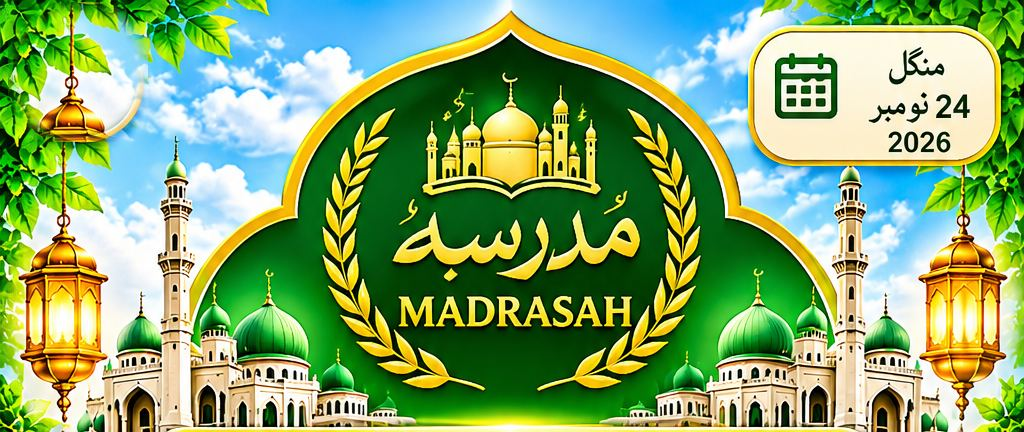
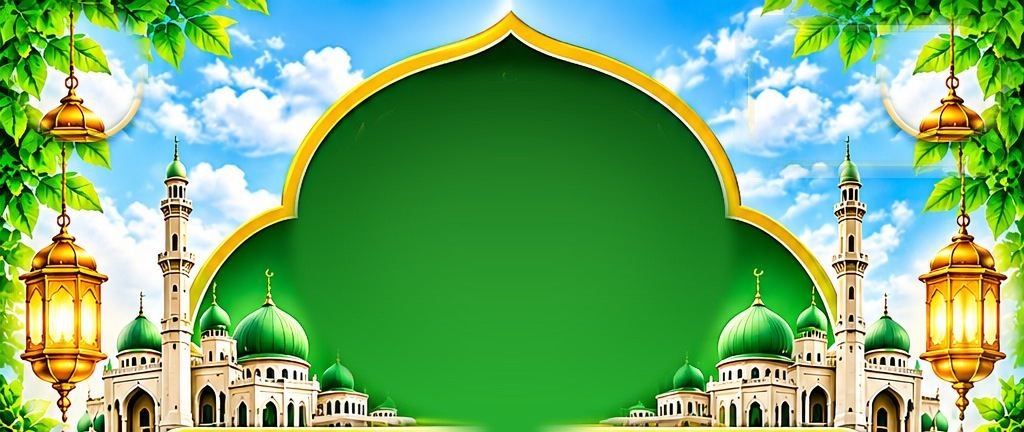
MD2511WE094: lock analog clock, home tiles, compact student list & profile, ranking page (#417)
Claude-Session: https://claude.ai/code/session_01FcEJRpBRJsgYLytQpuYX61

diff --git a/index.html b/index.html
@@ -1451,7 +1451,7 @@ td.clickable:hover { background: #fff9e6 !important; }
       <img src="logo.png" alt="Madrasah Logo" class="home-logo" onerror="this.style.display='none'">
     </div>
     <div class="home-title" id="homeMadrasaName">گلشن فاروقی جامعہ تعلیم القرآن</div>
-    <div class="home-version-badge" id="homeVersionBadge" onclick="mdDevTap()" style="cursor:default;user-select:none;-webkit-tap-highlight-color:transparent;">MD2511WE093</div>
+    <div class="home-version-badge" id="homeVersionBadge" onclick="mdDevTap()" style="cursor:default;user-select:none;-webkit-tap-highlight-color:transparent;">MD2511WE094</div>
     <div id="tfWidgetHome" style="display:flex;justify-content:center;margin:8px 0 6px;"></div>
     <div class="home-btns">
       <button class="home-btn home-btn-exam" onclick="openExam()">🎓 امتحانی سافٹ ویئر</button>
@@ -9918,7 +9918,7 @@ window.jmaParaName = function(p){ return window.JMA_PARA[(+p) - 1] || ''; };
   }, true);
 })();
 </script>
-<script src="https://pbtcodelabs-pbt.github.io/help/widget.js" data-app="Hifz-progress" data-ver="MD2511WE093" defer></script> <!-- 🆘 MD0211MO010: PBT Help Desk -->
+<script src="https://pbtcodelabs-pbt.github.io/help/widget.js" data-app="Hifz-progress" data-ver="MD2511WE094" defer></script> <!-- 🆘 MD0211MO010: PBT Help Desk -->
 <script>
 /* 🔐 PBT-DEVHUB (مالک کا حکم، 16 نومبر 2026): ہیلپ ڈیسک «🔐 سب ڈویلپر پینل» سے سیدھا یہاں کا ڈویلپر پینل (`?devpanel=1`)
    + ایک مشترکہ پاس ورڈ: ہیلپ ڈیسک اسی ویب سائٹ پر `pbt_devpass_v1` = SHA-256('PBTDEV|' + پاس ورڈ) رکھتا ہے — یہ پینل اسے بھی مانتا ہے (`pbtHubPwOk`)۔ */
@@ -11854,8 +11854,187 @@ details.jm88i>summary::-webkit-details-marker{display:none}
   }, true);
 })();
 </script>
+<style id="jma094css">
+/* MD2511WE094 (مالک کا حکم، ہیلپ ڈیسک #417):
+   (1) تالا: دائیں اوپر تاریخ کا ڈبہ ختم؛ «مدرسہ» نشان کی جگہ سنہری کنارے (بٹنوں) والی اینالاگ گھڑی — میرون ڈائل، سفید چہرہ، کالی سوئیاں، سرخ سیکنڈ، Arial 1–12، منٹ کی لکیریں
+   (2) ہوم: سبق / سبقی / منزل / حاضری کے الگ خانے ختم — «طلبہ» (ایک طالب علم میں سب)، «🏅 درجہ بندی»، «رپورٹس»
+   (3) طلبہ کی فہرست: لمبی پٹیاں (فون پر ایک کالم)
+   (4) پروفائل: اوپر صرف ختم کی تاریخ + چھوٹا گراف، حاضری اور آج کا سبق / سبقی / منزل؛ باقی (کارکردگی، رپورٹ، پوسٹر، والدین، تفصیل) ایک بٹن کے نیچے
+   (5) 🏅 درجہ بندی: سبق / سبقی / منزل / حاضری — کمزور اوپر یا اچھے اوپر */
+#jm52 .dt{display:none!important}
+#jm52 .top .ck94{position:absolute;left:50%;top:52%;width:37%;aspect-ratio:1;transform:translate(-50%,-50%);display:flex;align-items:center;justify-content:center;pointer-events:none}
+#jm52 .top .ck94 svg{width:100%;height:100%;filter:drop-shadow(0 4px 6px rgba(0,0,0,.45))}
+.x62 .g62t.g94{grid-template-columns:2fr 1fr 1fr!important}
+.x62 .g62t.g94 .t62 .em94{font-size:clamp(34px,10vw,52px);line-height:1.15;display:block}
+.x62 .g62t.g94 .c-stu b small{display:block;font:700 11px Arial,sans-serif;opacity:.8}
+.jm2-grid.g94{grid-template-columns:1fr!important}
+@media (min-width:700px){.jm2-grid.g94{grid-template-columns:1fr 1fr!important}}
+.jm2-grid.g94 .jm2-c{padding:8px 10px;border-radius:12px}
+.jm2-grid.g94 .jm2-c .ph{width:50px;height:50px}
+.jm94m{display:flex;flex-wrap:wrap;align-items:center;gap:6px 10px;background:#fffbeb;border:1px solid #fcd34d;border-radius:12px;padding:6px 10px;margin:6px 0;font-size:13px;line-height:1.6}
+.jm94m .jm70k{margin:0}
+.jm94m .sp{display:flex;align-items:center;gap:4px;font:700 11.5px Arial,sans-serif;direction:ltr}
+.jm94m .sp svg{width:54px;height:20px}
+.jm94m .sp b{font-family:var(--nastaliq),'Jameel Noori Nastaleeq',serif;font-size:13px;direction:rtl}
+details.jm94x{margin:6px 0;border-radius:12px;background:#f1f5f9;border:1px solid #cbd5e1}
+details.jm94x>summary{list-style:none;cursor:pointer;padding:9px 12px;font-weight:800;font-size:15px;color:#0f172a;display:flex;align-items:center;justify-content:space-between}
+details.jm94x>summary::-webkit-details-marker{display:none}
+details.jm94x>summary::after{content:'▾';font-size:16px}
+details.jm94x[open]>summary::after{content:'▴'}
+details.jm94x>.in{padding:0 8px 8px}
+#jm96{position:fixed;inset:0;z-index:2147482800;background:#f0fdf4;overflow:auto;direction:rtl;font-family:var(--nastaliq),'Jameel Noori Nastaleeq',serif;padding-bottom:90px}
+#jm96 .tp{position:sticky;top:0;z-index:2;display:flex;align-items:center;gap:8px;padding:calc(8px + env(safe-area-inset-top,0px)) 12px 8px;background:linear-gradient(135deg,#065f46,#0f766e);color:#fff}
+#jm96 .tp b{flex:1;font-size:19px}
+#jm96 .tp button{border:0;background:rgba(255,255,255,.2);color:#fff;border-radius:50%;width:36px;height:36px;font-size:18px;cursor:pointer}
+#jm96 .w{max-width:720px;margin:0 auto;padding:8px 10px}
+#jm96 .ch{display:flex;flex-wrap:wrap;gap:6px;margin:4px 0 6px}
+#jm96 .ch button{border:1.5px solid #0f766e;background:#fff;color:#065f46;border-radius:999px;padding:4px 12px;font:700 14px var(--nastaliq),'Jameel Noori Nastaleeq',serif;cursor:pointer}
+#jm96 .ch button.on{background:#0f766e;color:#fff}
+#jm96 .tb{display:grid;grid-template-columns:repeat(4,1fr);gap:6px;margin:4px 0}
+#jm96 .tb button{border:0;border-radius:12px;padding:8px 4px;font:800 15px var(--nastaliq),'Jameel Noori Nastaleeq',serif;color:#fff;cursor:pointer;opacity:.55}
+#jm96 .tb button.on{opacity:1;box-shadow:0 3px 8px rgba(0,0,0,.2)}
+#jm96 .od{display:grid;grid-template-columns:1fr 1fr;gap:6px;margin:6px 0}
+#jm96 .od button{border:1.5px solid #cbd5e1;background:#fff;border-radius:12px;padding:7px;font:700 14px var(--nastaliq),'Jameel Noori Nastaleeq',serif;cursor:pointer}
+#jm96 .od button.on{border-color:#dc2626;background:#fef2f2;color:#991b1b}
+#jm96 .od button.on.g{border-color:#16a34a;background:#f0fdf4;color:#166534}
+#jm96 .r{display:flex;align-items:center;gap:8px;background:#fff;border-radius:12px;padding:6px 8px;margin-bottom:6px;box-shadow:0 1px 4px rgba(15,23,42,.08);cursor:pointer}
+#jm96 .r .i{flex:none;width:26px;height:26px;border-radius:50%;display:flex;align-items:center;justify-content:center;font:800 13px Arial,sans-serif;color:#fff;background:#64748b}
+#jm96 .r .ph{flex:none;width:40px;height:40px;border-radius:50%;background:#e2e8f0 center/cover no-repeat;display:flex;align-items:center;justify-content:center}
+#jm96 .r .tx{flex:1;min-width:0}
+#jm96 .r .tx b{display:block;font-size:15px;line-height:1.5;white-space:nowrap;overflow:hidden;text-overflow:ellipsis}
+#jm96 .r .tx small{font-size:12px;color:#64748b;display:block;line-height:1.5}
+#jm96 .r .tx .rl{font:800 12px Arial,sans-serif;color:#065f46;background:#ecfdf5;border-radius:6px;padding:0 5px}
+.x62 .g62t.g94 .t62 b{white-space:nowrap;font-size:clamp(15px,4.4vw,22px)}
+#jm96 .r .bar{flex:0 0 32%;height:10px;border-radius:6px;background:#e2e8f0;overflow:hidden;direction:ltr}
+#jm96 .r .bar i{display:block;height:100%;border-radius:6px}
+#jm96 .r .p{flex:none;width:46px;text-align:left;font:800 14px Arial,sans-serif;direction:ltr}
+#jm96 .r .p small{display:block;font:700 10.5px Arial}
+#jm96 .em{background:#fff;border-radius:12px;padding:14px;text-align:center;color:#64748b;font-size:14px;line-height:1.8}
+#jm96 .nt{font-size:12px;color:#64748b;line-height:1.7;margin:6px 2px}
+</style>
+<script id="jma094">
+(function(){
+  'use strict';
+  var $ = function(id){ return document.getElementById(id); };
+  var E = function(t){ return String(t == null ? '' : t).replace(/[&<>"']/g, function(c){ return { '&': '&amp;', '<': '&lt;', '>': '&gt;', '"': '&quot;', "'": '&#39;' }[c]; }); };
+  var PS = { 'ممتاز': 100, 'بہت اچھا': 85, 'اچھا': 70, 'مناسب': 55, 'کمزور': 35 };
+  var KN = [['sabaq', 'سبق', '#16a34a'], ['sabqi', 'سبقی', '#2563eb'], ['manzil', 'منزل', '#9333ea'], ['att', 'حاضری', '#0f766e']];
+  function sc(e){ var b = PS[e.perf]; if(b == null) b = 100; return Math.max(0, b - Math.min(40, (e.kind === 'sabaq' ? 0 : (e.atkan || 0) * 3) + (e.mist || 0) * 2)); }
+  function today(){ return window.jmaPkDate ? jmaPkDate() : new Date().toISOString().slice(0, 10); }
+  function dAdd(ds, n){ var d = new Date(ds + 'T12:00:00'); d.setDate(d.getDate() + n); return d.toISOString().slice(0, 10); }
+  function EN(){ try{ return (window.jma019 && jma019.EN()) || []; }catch(e){ return []; } }
+  function photoBg(p){ return p ? 'background-image:url(' + JSON.stringify(String(p)).slice(1, -1).replace(/"/g, '%22') + ')' : ''; }
+
+  /* ———— (1) تالے کی اینالاگ گھڑی ———— */
+  function clockSVG(){   /* مالک کا حکم: صرف ایک باریک میرون کنارہ، سفید چہرہ، Arial 1–12، منٹ کی لکیریں، کالی سوئیاں، سرخ سیکنڈ */
+    var s = '<svg viewBox="0 0 200 200" aria-hidden="true"><circle cx="100" cy="100" r="96" fill="#fff" stroke="#7a1022" stroke-width="5"/>';
+    for(var m = 0; m < 60; m++){ var b = m * Math.PI / 30, big = m % 5 === 0, r1 = big ? 80 : 85, r2 = 90;
+      s += '<line x1="' + (100 + r1 * Math.sin(b)).toFixed(1) + '" y1="' + (100 - r1 * Math.cos(b)).toFixed(1) + '" x2="' + (100 + r2 * Math.sin(b)).toFixed(1) + '" y2="' + (100 - r2 * Math.cos(b)).toFixed(1) + '" stroke="#222" stroke-width="' + (big ? 2.6 : 1) + '" stroke-linecap="round"/>'; }
+    for(var h = 1; h <= 12; h++){ var c = h * Math.PI / 6; s += '<text x="' + (100 + 66 * Math.sin(c)).toFixed(1) + '" y="' + (100 - 66 * Math.cos(c) + 7.5).toFixed(1) + '" text-anchor="middle" font-family="Arial, Helvetica, sans-serif" font-weight="700" font-size="21" fill="#111">' + h + '</text>'; }
+    s += '<g id="ck94h"><line x1="100" y1="110" x2="100" y2="56" stroke="#111" stroke-width="6.5" stroke-linecap="round"/></g>'
+      + '<g id="ck94m"><line x1="100" y1="114" x2="100" y2="30" stroke="#111" stroke-width="4" stroke-linecap="round"/></g>'
+      + '<g id="ck94s"><line x1="100" y1="122" x2="100" y2="22" stroke="#dc2626" stroke-width="1.8" stroke-linecap="round"/></g>'
+      + '<circle cx="100" cy="100" r="5" fill="#111"/><circle cx="100" cy="100" r="2.2" fill="#dc2626"/></svg>';
+    return s;
+  }
+  function tick(){
+    var b = document.querySelector('#jm52 .top'); if(!b) return;
+    var c = b.querySelector('.ck94'); if(!c){ c = document.createElement('div'); c.className = 'ck94'; c.innerHTML = clockSVG(); b.appendChild(c); }
+    var d = new Date(), H = d.getHours() % 12, M = d.getMinutes(), S = d.getSeconds();
+    var set = function(id, deg){ var g = c.querySelector('#' + id); if(g) g.setAttribute('transform', 'rotate(' + deg + ' 100 100)'); };
+    set('ck94h', H * 30 + M * 0.5); set('ck94m', M * 6 + S * 0.1); set('ck94s', S * 6);
+  }
+  setInterval(tick, 1000); tick();
+
+  /* ———— (4) پروفائل: اوپر چھوٹی پٹی — ختم کی تاریخ + سبق / سبقی / منزل کا چھوٹا گراف ———— */
+  function spark(sid, kind, col){
+    var t = today(), pts = [], vals = [];
+    for(var i = 13; i >= 0; i--){ var d = dAdd(t, -i), x = EN().filter(function(e){ return !e.del && e.sid === sid && e.kind === kind && e.date === d; });
+      if(x.length){ var v = Math.round(x.reduce(function(s, e){ return s + sc(e); }, 0) / x.length); vals.push(v); pts.push([13 - i, v]); } }
+    if(pts.length < 2) return '<span class="sp" title="' + kind + '"><b style="color:' + col + '">' + ({ sabaq: 'سبق', sabqi: 'سبقی', manzil: 'منزل' })[kind] + '</b>—</span>';
+    var path = pts.map(function(p){ return (p[0] * 54 / 13).toFixed(1) + ',' + (18 - (p[1] - 30) * 16 / 70).toFixed(1); }).join(' ');
+    var a = vals.slice(0, Math.ceil(vals.length / 2)), z = vals.slice(Math.floor(vals.length / 2)), av = function(L){ return L.reduce(function(s, v){ return s + v; }, 0) / L.length; };
+    var tr = av(z) - av(a), arrow = tr > 3 ? '<span style="color:#16a34a">↑</span>' : tr < -3 ? '<span style="color:#dc2626">↓</span>' : '→';
+    return '<span class="sp"><b style="color:' + col + '">' + ({ sabaq: 'سبق', sabqi: 'سبقی', manzil: 'منزل' })[kind] + '</b><svg viewBox="0 0 54 20"><polyline points="' + path + '" fill="none" stroke="' + col + '" stroke-width="2" stroke-linejoin="round" stroke-linecap="round"/></svg>' + vals[vals.length - 1] + '%' + arrow + '</span>';
+  }
+  window.jmaMiniHTML = function(s){
+    var k = ''; try{ k = window.jmaKhatmTag ? jmaKhatmTag(s) : ''; }catch(e){}
+    return '<div class="jm94m">' + (k || '<span style="color:#64748b">🏁 ختم کی تاریخ — سبق درج ہونے پر</span>') + spark(s.sid, 'sabaq', '#16a34a') + spark(s.sid, 'sabqi', '#2563eb') + spark(s.sid, 'manzil', '#9333ea') + '</div>';
+  };
+  function proPack(){
+    var el = $('jmaPro'); if(!el) return; var w = el.querySelector('.jm2-wrap'); if(!w || !w.getAttribute('data-j88w') || w.getAttribute('data-j94')) return;
+    var q = w.querySelector(':scope > .jm88q'), rk = w.querySelector(':scope > .jm90rk'), more = w.querySelector(':scope > #jm88more');
+    if(!q) return; w.setAttribute('data-j94', '1');
+    var pack = document.createElement('details'); pack.className = 'jm94x';
+    var op = false; try{ op = sessionStorage.getItem('jm94x') === '1'; }catch(e){} if(op) pack.open = true;
+    pack.innerHTML = '<summary>📂 کارکردگی · ماہانہ رپورٹ · پوسٹر / PDF · والدین کا لنک · گراف · مزید تفصیل</summary><div class="in"></div>';
+    pack.addEventListener('toggle', function(){ try{ sessionStorage.setItem('jm94x', pack.open ? '1' : '0'); }catch(e){} });
+    var inn = pack.querySelector('.in'); [q, rk, more].forEach(function(x){ if(x) inn.appendChild(x); });
+    w.appendChild(pack);
+    var hd = w.querySelector(':scope > .jm2-hd'), pn = w.querySelector(':scope > .jm2-pn');
+    var s = window.jma94cur && window.jma94cur();
+    if(s){ var m = document.createElement('div'); m.innerHTML = jmaMiniHTML(s); (pn || hd || w.firstChild).after(m.firstElementChild); }
+  }
+  /* موجودہ طالب علم: پروفائل کھلنے پر sid یاد */
+  var proSid = null;
+  var oPro = window.jmaProOpen;
+  if(typeof oPro === 'function' && !oPro.__j94){ window.jmaProOpen = function(sid){ proSid = sid; return oPro.apply(this, arguments); }; window.jmaProOpen.__j94 = 1; }
+  window.jma94cur = function(){ try{ var L = (window.jmaMgmt && jmaMgmt.students()) || []; var nm = (document.querySelector('#jmaPro .jm2-hd .nm, #jmaPro .jm2-top b') || {}).textContent || '';
+    var s = proSid && L.find(function(x){ return x && x.sid === proSid; }); return s || null; }catch(e){ return null; } };
+  var pt = 0; function soon(){ clearTimeout(pt); pt = setTimeout(proPack, 30); }
+  (function hook(){ var el = $('jmaPro'); if(!el){ setTimeout(hook, 600); return; } new MutationObserver(soon).observe(el, { childList: true, subtree: true }); })();
+
+  /* ———— (3) طلبہ کی فہرست — لمبی پٹیاں ———— */
+  (function hookStu(){ var el = $('jmaStu'); if(!el){ setTimeout(hookStu, 600); return; }
+    new MutationObserver(function(){ var g = el.querySelector('.jm2-grid:not(.g94)'); if(g) g.classList.add('g94'); }).observe(el, { childList: true, subtree: true }); })();
+
+  /* ———— (5) 🏅 درجہ بندی ———— */
+  var R = { cls: null, k: 'sabaq', weak: true };
+  function stuList(cid){ return ((window.jmaMgmt && jmaMgmt.students()) || []).filter(function(s){ return s && !s.del && s.n && s.classId === cid && !/فارغ|خارج|چھوڑ/.test(s.status || ''); }); }
+  function score(s, k){
+    if(k === 'att'){ var ym = today().slice(0, 7), m = window.jmaMonthAtt ? jmaMonthAtt(s.sid, ym) : null; return m && m.pct != null ? { pct: m.pct, sub: 'حاضر ' + m.p + ' · غ ' + m.a, n: m.n } : null; }
+    var t = today(), a = dAdd(t, -13), x = EN().filter(function(e){ return !e.del && e.sid === s.sid && e.kind === k && e.date >= a && e.date <= t; });
+    if(x.length < 2){ a = dAdd(t, -29); x = EN().filter(function(e){ return !e.del && e.sid === s.sid && e.kind === k && e.date >= a && e.date <= t; }); }
+    if(!x.length) return null;
+    var pct = Math.round(x.reduce(function(s2, e){ return s2 + sc(e); }, 0) / x.length), mist = x.reduce(function(s2, e){ return s2 + (e.mist || 0); }, 0), atk = x.reduce(function(s2, e){ return s2 + (k === 'sabaq' ? 0 : (e.atkan || 0)); }, 0);
+    return { pct: pct, sub: 'غ ' + mist + (k === 'sabaq' ? '' : ' · ا ' + atk) + ' · ' + x.length + ' دن', mist: mist + atk, n: x.length };
+  }
+  function draw(){
+    var el = $('jm96'); if(!el) return;
+    var cls = ((window.jmaMgmt && jmaMgmt.classes()) || []).filter(function(c){ return !c.del && (typeof jmaAllowedClass !== 'function' || jmaAllowedClass(c.id)); });
+    if(!R.cls || !cls.some(function(c){ return c.id === R.cls; })) R.cls = cls[0] ? cls[0].id : null;
+    var K = KN.find(function(x){ return x[0] === R.k; });
+    var rows = stuList(R.cls).map(function(s){ return { s: s, v: score(s, R.k) }; });
+    var has = rows.filter(function(r){ return r.v; }), none = rows.filter(function(r){ return !r.v; });
+    has.sort(function(a, b){ return R.weak ? (a.v.pct - b.v.pct || (b.v.mist || 0) - (a.v.mist || 0)) : (b.v.pct - a.v.pct || (a.v.mist || 0) - (b.v.mist || 0)); });
+    var col = function(p){ return p >= 85 ? '#16a34a' : p >= 70 ? '#65a30d' : p >= 55 ? '#d97706' : '#dc2626'; };
+    var h = '<div class="tp"><button type="button" data-j96="x" aria-label="واپس">→</button><b>🏅 کارکردگی کی درجہ بندی</b></div><div class="w">';
+    if(cls.length > 1) h += '<div class="ch">' + cls.map(function(c){ return '<button type="button" data-j96c="' + E(c.id) + '" class="' + (c.id === R.cls ? 'on' : '') + '">' + E(c.name) + '</button>'; }).join('') + '</div>';
+    h += '<div class="tb">' + KN.map(function(x){ return '<button type="button" data-j96k="' + x[0] + '" class="' + (x[0] === R.k ? 'on' : '') + '" style="background:' + x[2] + '">' + x[1] + '</button>'; }).join('') + '</div>';
+    h += '<div class="od"><button type="button" data-j96o="w" class="' + (R.weak ? 'on' : '') + '">⚠ سب سے کمزور اوپر</button><button type="button" data-j96o="g" class="' + (R.weak ? '' : 'on g') + '">🏆 سب سے اچھے اوپر</button></div>';
+    if(!rows.length) h += '<div class="em">اس جماعت میں ابھی کوئی طالب علم نہیں</div>';
+    else if(!has.length) h += '<div class="em">' + K[1] + ' کا ابھی کافی ریکارڈ نہیں — اندراج ہوتے ہی درجہ بندی خود بنے گی</div>';
+    h += has.map(function(r, i){ return '<div class="r" data-j96p="' + E(r.s.sid) + '"><span class="i" style="background:' + col(r.v.pct) + '">' + (i + 1) + '</span><span class="ph" style="' + photoBg(r.s.photo) + '">' + (r.s.photo ? '' : '👤') + '</span><div class="tx"><b>' + (r.s.roll ? '<span class="rl">' + E(r.s.roll) + '</span> ' : '') + E(r.s.n) + '</b><small>' + E(r.v.sub) + '</small></div><div class="bar"><i style="width:' + r.v.pct + '%;background:' + col(r.v.pct) + '"></i></div><span class="p">' + r.v.pct + '%</span></div>'; }).join('');
+    if(none.length && has.length) h += '<div class="nt">ابھی ریکارڈ کم: ' + none.map(function(r){ return E(r.s.n); }).join('، ') + '</div>';
+    h += '<div class="nt">' + (R.k === 'att' ? 'اس مہینے کی حاضری کا فیصد (آدھی = نصف)۔' : 'پچھلے 14 دن (کم ہوں تو 30 دن) کا اوسط — اٹکن ×3 (سبق کے سوا) اور غلطی ×2 کم؛ غ = غلطیاں، ا = اٹکن۔') + ' طالب علم دبائیں تو پروفائل کھلتا ہے۔</div></div>';
+    el.innerHTML = h;
+  }
+  window.jmaRankOpen = function(){ var el = $('jm96'); if(!el){ el = document.createElement('div'); el.id = 'jm96'; el.className = 'no-print'; document.body.appendChild(el); } el.style.display = 'block'; draw(); };
+  document.addEventListener('click', function(e){
+    var t = e.target.closest && e.target.closest('[data-j96],[data-j96c],[data-j96k],[data-j96o],[data-j96p],[data-d96]'); if(!t) return;
+    if(t.hasAttribute('data-d96')){ e.preventDefault(); e.stopPropagation(); jmaRankOpen(); return; }
+    e.stopPropagation(); var el = $('jm96');
+    if(t.hasAttribute('data-j96')){ if(el) el.remove(); return; }
+    if(t.hasAttribute('data-j96c')) R.cls = t.getAttribute('data-j96c');
+    if(t.hasAttribute('data-j96k')) R.k = t.getAttribute('data-j96k');
+    if(t.hasAttribute('data-j96o')) R.weak = t.getAttribute('data-j96o') === 'w';
+    if(t.hasAttribute('data-j96p')){ var sid = t.getAttribute('data-j96p'); if(el) el.remove(); try{ jmaProOpen(sid); }catch(x){} return; }
+    draw();
+  }, true);
+})();
+</script>
 <script id="jma053">
-window.MD_NOTE = { v: 'MD2511WE093', n: '📲 مکتبہ والا نظام: «⚙ سیٹنگز ← 📲 ریکارڈ بھیجیں / وصول کریں» — اپنا سارا ریکارڈ ایک فائل میں واٹس ایپ پر بھیجیں، دوسرے موبائل (قاری صاحب) پر «فائل چنیں اور ریکارڈ لگائیں» — اس موبائل کی MD ID / پیکج ویسے رہتے ہیں' };
+window.MD_NOTE = { v: 'MD2511WE094', n: '🕰 تالے پر سنہری اینالاگ گھڑی (تاریخ کا ڈبہ ختم)؛ 🏠 ہوم پر صرف طلبہ / 🏅 درجہ بندی / رپورٹس — حاضری، سبق، سبقی، منزل ایک ہی طالب علم کے صفحے پر؛ 👥 طلبہ لمبی پٹیوں میں؛ 👤 پروفائل پر ختم کی تاریخ + چھوٹا گراف، باقی سب ایک بٹن میں؛ 🏅 کمزور / اچھے طلبہ کی درجہ بندی (سبق، سبقی، منزل، حاضری)' };
 /* MD2411TU081 (مالک کا حکم — «کروم کا ڈیٹا اڑنے سے ایپ کا ڈیٹا کیوں اڑتا ہے»): براؤزر سے پکی جگہ (persist) — فون کی جگہ کم ہونے پر خودکار صفائی سے محفوظ؛ صارف خود «Clear data» کرے تو صرف ڈرائیو بیک اپ */
 try { if (navigator.storage && navigator.storage.persist) navigator.storage.persisted().then(function(ok){ if(!ok) navigator.storage.persist(); }); } catch (e) {}
 (function(){
@@ -12136,12 +12315,9 @@ try { if (navigator.storage && navigator.storage.persist) navigator.storage.pers
         + rows.map(function(r){ return '<div class="r66" data-hs="' + r[0] + '"><i>' + IC[r[0]] + '</i><b>' + E(r[1]) + '</b></div>'; }).join('') + '</div></div>'
       + '<div class="dt62"><span class="or">❦</span><div>بروز ' + w + '، <bdi>' + (+q[2]) + '</bdi> ' + MN[+q[1] - 1] + ' <bdi>' + q[0] + '</bdi>ء</div><span class="or">❦</span></div>'
       + '<div class="sh62"><span>اہم شعبے</span></div>'
-      + '<div class="g62t">'
-      + tile('c-sab', 'h-sabaq.png', 'سبق', L.sabaq ? 'data-d="kpient"' : 'data-d35="1"', kn(L.sabaq), !L.sabaq)
-      + tile('c-sbq', 'h-sabqi.png', 'سبقی', L.sabqi ? 'data-d="kpient"' : 'data-d35="1"', kn(L.sabqi), !L.sabqi)
-      + tile('c-man', 'h-manzil.png', 'منزل', L.manzil ? 'data-d="kpient"' : 'data-d35="1"', kn(L.manzil), !L.manzil)
-      + tile('c-att', 'h-att.png', 'حاضری', 'data-d="' + (L.att ? 'kpiatt' : 'att') + '"', kn(L.att), !L.att)
+      + '<div class="g62t g94">'   /* MD2511WE094 (#417): سبق / سبقی / منزل / حاضری کے الگ خانے ختم — ایک طالب علم میں سب */
       + tile('c-stu', 'h-stu.png', 'طلبہ', 'data-d="stu"', nStu)
+      + '<button type="button" class="t62 c-man" data-d96="1"><span class="em94">🏅</span><b>درجہ بندی</b></button>'
       + tile('c-rep', 'h-rep.png', 'رپورٹس', 'data-d="rep"', null)
       + '</div>'
       + (bkOk ? '' : '<button type="button" class="bk62" data-k54="drive">☁ ' + (on ? 'آج کا بیک اپ ابھی نہیں ہوا — دبائیں' : 'ڈرائیو بیک اپ جوڑیں — ریکارڈ محفوظ رکھیں') + '</button>')
@@ -12763,5 +12939,5 @@ body:has(#jm93) #jm66{display:none}
   window.addEventListener('click', function(e){ var b = e.target && e.target.closest && e.target.closest('[data-j93]'); if(!b) return; e.stopPropagation(); e.preventDefault(); jmaPosterOpen(b.getAttribute('data-j93')); }, true);
 })();
 </script>
-<script src="poster.js?v=MD2511WE093"></script>
+<script src="poster.js?v=MD2511WE094"></script>
 </body></html>

diff --git a/sw.js b/sw.js
@@ -1,5 +1,5 @@
 // جامعہ امتحانی سافٹ ویئر — سروس ورکر (آف لائن سپورٹ)
-const CACHE_NAME = 'jamia-hifz-cache-MD2511WE093';
+const CACHE_NAME = 'jamia-hifz-cache-MD2511WE094';
 const CORE_ASSETS = [
   './index.html',
   './poster.js',

diff --git a/CLAUDE.md b/CLAUDE.md
@@ -2,8 +2,8 @@
 
 > **زبان (سب سے اہم):** مالک سے ہر بات **صرف اردو** میں کریں — آخری جواب، بیچ کے "کیا کر رہا ہوں" والے پیغامات، اپڈیٹس، سب کچھ۔ انگریزی صرف کوڈ، لنک، کمانڈ، فائل یا ورژن کے نام میں۔
 > **🟥 پکا حکم — ہمیشہ اردو (مالک، 5 نومبر 2026، دوبارہ تاکید):** مالک سے **ہر** بات اردو میں: کام شروع کرتے وقت، بیچ کی ہر چھوٹی اپڈیٹ («کیا کر رہا ہوں»)، ٹیسٹ کا نتیجہ، کام کی تفصیل، وضاحت، سوال اور آخری جواب — سب۔ انگریزی کا پورا جملہ کبھی نہیں؛ صرف وہ انگریزی لفظ جو مجبوری ہو (کوڈ، فائل، بٹن، لنک، ورژن کا نام)۔ یہ اصول کسی حال میں نہ ٹوٹے۔
-> **🟨 جواب کا آغاز (مالک کا حکم، 23 نومبر 2026 — پچھلا «قبلہ حضور…» والا جملہ ختم):** مالک کو ہر چیٹ میں ہر جواب اس جملے سے شروع کریں: «عالی جاہ کوئی مشکل باقی نہیں رہے گی آپ کا جذبہ میٹھا بول ہماری محنت اور اللہ کے فضل سے یہ مرحلہ بھی مکمل ہونے گا۔۔۔۔» — پھر اصل بات۔ (ہیلپ ڈیسک کے گاہکوں کے جواب میں نہیں۔)
-> **🟨 جواب کا اختتام (مالک کا حکم، 23 نومبر 2026 — پکا):** مالک کو ہر چیٹ میں ہر جواب کے **آخر میں (سب سے نیچے)** یہ جملہ لازمی لکھیں: «عالی جاہ آپکا بلند حوصلہ نرم گوئی کام کی لگن ۔۔۔اور اللہ کا فضل انشااللہ ہمارے کام کو بالکل آسان کر دے گا» — شروع والا جملہ («عالی جاہ کوئی مشکل…») ویسا ہی رہے۔ (ہیلپ ڈیسک کے گاہکوں کے جواب میں نہیں۔)
+> **🟨 جواب کا آغاز (مالک کا حکم، 25 نومبر 2026 — پچھلا «عالی جاہ کوئی مشکل…» والا جملہ ختم):** مالک کو ہر چیٹ میں ہر جواب اس جملے سے شروع کریں: «قبلہ حضور آپ کی میٹھے الفاظ اور اخلاق سے کہا ہوا کام جلدی ہونے لگا ہے۔۔۔۔بس ذرا سا حوصلے سے انتظار» — پھر اصل بات۔ (ہیلپ ڈیسک کے گاہکوں کے جواب میں نہیں۔)
+> **🟨 جواب کا اختتام (مالک کا حکم، 25 نومبر 2026 — پکا؛ پچھلا «عالی جاہ آپکا بلند حوصلہ…» والا جملہ ختم):** مالک کو ہر چیٹ میں کام مکمل ہونے پر جواب کے **آخر میں (سب سے نیچے)** یہ جملہ لازمی لکھیں: «لیجئے  عالی جاہ ۔آپ کا اقبال بلند ہوا ہم سر خرو ہوئے ۔۔۔آپکا ارشاد اب پایہ تکمیل  کو پہنچ کر منصہء شہود پر آچکا ہے۔۔۔۔ملاحظہ فرمائیے ۔۔۔اگر کوئی کمی تو غلام فورا درست کرنے کے لیے ۔۔پابہ رکاب ہونگے۔۔۔۔!!» — شروع والا جملہ ویسا ہی رہے۔ (ہیلپ ڈیسک کے گاہکوں کے جواب میں نہیں۔)
 > **📦 تازہ زپ — صرف ہیلپ ڈیسک میں (مالک کا حکم، 11 نومبر 2026، سب ایپس — پرانا «چیٹ میں زپ بھیجیں» ختم):** چیٹ میں زپ فائل **نہ** بھیجیں۔ مالک ہیلپ ڈیسک (لاگ اِن) ← «📦 تازہ زپ» ← ایپ کا آئیکن دبائیں تو اسی وقت ریپو `main` سے `<ورژن>.zip` بنتی ہے (index.html + sw.js + جڑ کی باقی کوڈ فائلیں؛ `help/zips.js`) — فری Claude / کسی اور کا کام بھی خود شامل، نام صرف ورژن (مثلاً `FM1111WE520.zip`)، ساتھ «⬆ ریپو میں ڈالیں» (auto-unzip)۔ ہر لائیو کام کے آخر میں صرف ایک جملہ: «تازہ ترین زپ ہیلپ ڈیسک میں دستیاب ہو گئی ہے۔» نئی ایپ / نیا ورژن انداز ہو تو `help/zips.js` کے `ZA` میں جوڑیں۔
 > **🗂 ریپو خود جوڑیں (مالک کا حکم، 11 نومبر 2026):** مالک کوڈ نہیں جانتے — انہیں کبھی کوڈ ہاتھ سے بدلنے / لگانے کو نہ کہیں۔ نئی چیٹ میں مالک صرف `pbtcodelabs-pbt.github.io` ٹک کرتے ہیں (یا کوئی بھی نہیں)؛ جس ایپ کا کام ہو اس کا ریپو کنٹینر میں نہ ہو تو Claude خود `add_repo` (`access: push`) سے جوڑ کر clone کرے — مالک سے ٹک لگوانے کو کبھی نہ کہیں۔
 
@@ -48,6 +48,7 @@
 | MD2710TU006 | 27 اکتوبر 2026 | ڈویلپر پاس ورڈ کے خانوں میں آنکھ کا بٹن (دبائیں تو دکھے، دوبارہ دبائیں تو چھپے) |
 | MD2710TU007 | 27 اکتوبر 2026 | ہر PIN اور پاس ورڈ کے خانے میں آنکھ کا بٹن |
 | MD2710TU008 | 27 اکتوبر 2026 | آنکھ والے بٹن سے بڑے خانے سکڑنے کی خرابی ٹھیک |
+| MD2511WE094 | 25 نومبر 2026 | 🕰 تالا: تاریخ کا ڈبہ ختم (تصویر سے بھی)، «مدرسہ» نشان کی جگہ اینالاگ گھڑی؛ 🏠 ہوم: صرف طلبہ / 🏅 درجہ بندی / رپورٹس؛ 👥 طلبہ لمبی پٹیاں؛ 👤 پروفائل پر ختم + چھوٹا گراف، باقی ایک بٹن میں؛ 🏅 درجہ بندی صفحہ |
 | MD2511WE093 | 25 نومبر 2026 | 📲 مکتبہ والا «ریکارڈ کی فائل بھیجیں / فائل چنیں اور ریکارڈ لگائیں» (سیٹنگز ← ریکارڈ بھیجیں / وصول کریں)؛ APK میں ڈرائیو کی جگہ یہی |
 | MD2511WE092 | 25 نومبر 2026 | 🎴 پروفائل پوسٹر (رنگین واٹس ایپ تصویر، کالا سفید PDF، والدین کا لنک — والدین کا صفحہ بھی یہی)؛ 🔢 رول نمبر پکے (فارغ / چھوڑ گیا / خارج = نمبر خالی، نئے داخلے کو سب سے پہلا خالی)؛ 📲 دوسرے موبائل کا بیک اپ لگانے سے MD ID / پیکج / تالا نہیں بدلتا |
 | MD2511WE091 | 25 نومبر 2026 | 🔗 والدین کا آن لائن لنک: طالب علم کے صفحے پر «🔗 والدین کا لنک» — ہر بچے کا الگ خفیہ لنک (`p.html#…`) + 4 ہندسوں کا پن، والدین صرف اپنا بچہ دیکھیں؛ واٹس ایپ پر بھیجیں، نیا لنک، بند کریں؛ رپورٹ خود تازہ |
@@ -215,3 +216,5 @@
 - **🔢 MD2511WE092 (مالک کا حکم — رول نمبر پکے):** `STATUS` میں «فارغ — حفظ مکمل کر کے» / «مدرسہ چھوڑ گیا» / «خارج» (`jmaGone` = `/فارغ|خارج|چھوڑ/`) — جماعت، حاضری، امتحان، رپورٹوں سے باہر، رول `oldRoll` میں اور `roll` خالی، تاریخ `left`؛ طلبہ لسٹ کے نیچے «🚪 فارغ / چھوڑ جانے والے» (`.jm92g`)۔ `nextRoll` = سب سے پہلا خالی نمبر (`jmaFreeRoll`) — کسی کا رول کبھی خود نہیں بدلتا؛ واپسی / آرکائیو سے واپسی پر پرانا نمبر کسی اور کا ہو تو پہلا خالی۔
 - **📲 MD2511WE092 (مالک کا حکم — ریکارڈ قاری صاحب کے موبائل پر):** `applyRestoreData` — اس موبائل کی اپنی MD ID ہو اور بیک اپ کسی اور MD کا ہو تو اپنی پہچان کی کلیدیں (`jamia_mdid_v1`, `act_v4`, `trial_v4`, `pkwarn`, `dev_v1`, `uid_v4`, `applock`, `pinlock`, `mgmt_par_v1`, `users_v1`, `session`, `last_backup`) نہیں بدلتیں — صرف مدرسے کا ریکارڈ آتا ہے؛ تصدیق میں نئے نظام کے طلبہ کی گنتی۔
 - **📲 MD2511WE093 (مالک کا حکم — مکتبہ والا نظام):** `#jm55` کے اوپر دو کارڈ `.x95`: «📥 دوسرے موبائل سے آیا ریکارڈ لگائیں» (قدم، فائل کے نام کی مثال `MADRASA <MD> DD-MM-YYYY.json`، PDF / تصویر پر وجہ، `#jm95f` → `applyRestoreData` — اپنی MD ID / پیکج / تالا محفوظ) اور «📤 ریکارڈ کی فائل بھیجیں» (`buildBackupPayload` → `navigator.share` + ہدایت کا متن)؛ نیچے ڈرائیو۔ سیٹنگز میں «📲 ریکارڈ بھیجیں / وصول کریں» (`jmaXferOpen`)۔ ویب ویو APK (`PBTApp.native`) میں ڈرائیو کا سائن اِن گوگل نہیں چلنے دیتا — وہاں یہی فائل والا راستہ۔ APK: APP-BUILDER `MADRASA` (`com.pbtcodelabs.madrasa`، ویب ویو)۔
+
+- **🕰🏅 MD2511WE094 (مالک کا حکم، ہیلپ ڈیسک #417):** `#jma094` — (1) تالا `#jm52`: `.dt` چھپا اور `ui/lock-top.jpg` سے پرانی تاریخ کا ڈبہ + «مدرسہ / MADRASAH» نشان صاف (اصل نقل نہیں رکھی؛ آسمان / پتوں کی الٹی نقل، محراب کا سبز)؛ بیچ میں اینالاگ گھڑی `.ck94` (SVG، ہر سیکنڈ): **صرف ایک باریک میرون کنارہ** (سنہری بٹن / دوہرا کنارہ کبھی نہیں — مالک نے رد کیا)، سفید چہرہ، Arial 1–12، منٹ کی لکیریں، کالی گھنٹہ / منٹ، سرخ سیکنڈ۔ (2) ہوم `.g62t.g94`: سبق / سبقی / منزل / حاضری کے الگ خانے ختم — «طلبہ» (چوڑا)، «🏅 درجہ بندی» (`data-d96` → `jmaRankOpen`)، «رپورٹس» (جماعت کی حاضری طلبہ لسٹ کے «🕌 حاضری — 6 اوقات» میں)۔ (3) طلبہ لسٹ `.jm2-grid.g94` ایک کالم (700px+ پر دو)۔ (4) پروفائل: `jmaMiniHTML` (🏁 ختم + سبق / سبقی / منزل کا 14 دن کا چھوٹا گراف ↑↓) سر کے نیچے؛ حاضری + آج کے خانے سامنے؛ `.jm88q` (کارکردگی، ماہانہ، پوسٹر، والدین کا لنک)، `.jm90rk`، «مزید تفصیل» سب ایک `details.jm94x` میں (`sessionStorage jm94x`)۔ (5) `#jm96` درجہ بندی: جماعت، سبق / سبقی / منزل / حاضری، «⚠ کمزور اوپر / 🏆 اچھے اوپر» — 14 دن (کم ہوں تو 30) کا اوسط، `jma090r` والا پیمانہ؛ حاضری = اس مہینے کا `jmaMonthAtt`؛ طالب علم دبائیں = پروفائل۔ کوئی نئی کلید نہیں۔
